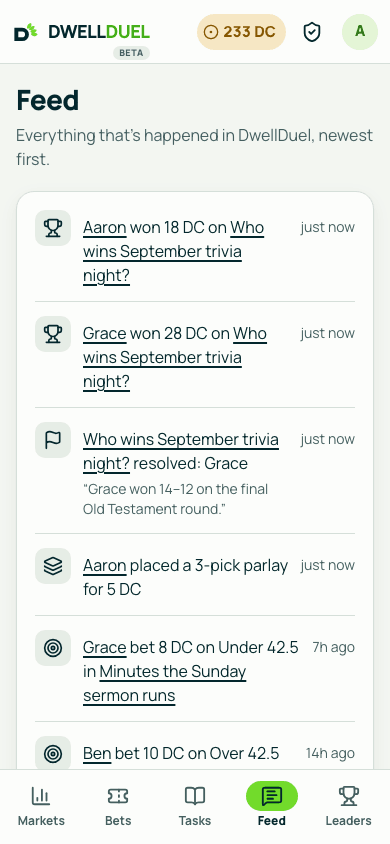
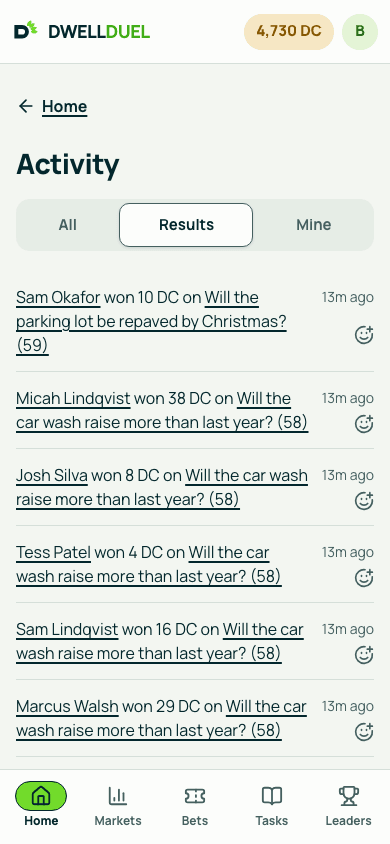
Retake the README screenshots from the redesigned app (#404)
Home, a market, Activity, Settings and the desktop Markets list are new;
the two unreferenced old screenshots are gone, and the captions and
feature list use the app's words.

diff --git a/README.md b/README.md
@@ -17,13 +17,13 @@ questions like "Will the sermon run past noon?" or "Who wins Sunday's
 chili cook-off?". They earn more DC by completing Bible-study tasks.
 A market maker sells shares at each outcome's current chance, so every
 bet's payout is fixed when it's placed; bets can be combined into parlays;
-and everything that happens shows up in a live feed.
+and everything that happens shows up in a live activity feed.
 
 **Current release:** [v0.10.1-beta](https://github.com/Aaron-Wickham/dwell-duel/releases/tag/v0.10.1-beta) · see the [changelog](CHANGELOG.md).
 
-| Home | A market | The feed | Settings |
+| Home | A market | Activity | Settings |
 |---|---|---|---|
-| ![Home, with the balance hero](docs/images/home-phone-light.png) | ![A market with its chance chart](docs/images/market-phone-dark.png) | ![The activity feed](docs/images/feed-phone-light.png) | ![Settings](docs/images/settings-phone-dark.png) |
+| ![Home: your bets closing soonest and the latest activity](docs/images/home-phone-light.png) | ![A market's outcomes, each with what 10 DC wins](docs/images/market-phone-dark.png) | ![Activity, showing results](docs/images/feed-phone-light.png) | ![Settings](docs/images/settings-phone-dark.png) |
 
 ![The markets list on desktop](docs/images/markets-desktop-light.png)
 
@@ -38,12 +38,12 @@ and everything that happens shows up in a live feed.
   paid their shares, rounded down to whole DC.
 - **One slip for every bet:** add outcomes from any market, mark each
   Solo or Parlay, and place them all at once.
-- **Parlays:** 2–6 legs, one per market. The stake is split across the
-  legs, each buying shares at its market's price, so the multiplier and
+- **Parlays:** 2–6 picks, one per market. The stake is split across the
+  picks, each buying shares at its market's price, so the multiplier and
   payout are fixed when it's placed.
 - **Results with receipts:** resolving needs a reason and can carry
   photos, files or links. Admins can override (blocked if a past winner has
-  already spent their winnings) or void (everyone is refunded).
+  already spent their winnings) or call a market off (everyone is refunded).
 - **My bets:** solo bets and parlays together, under Open, Settled and
   Cancelled. Bets are final; the Cancelled tab keeps bets cancelled before
   October 2026, when that was allowed.
@@ -55,7 +55,7 @@ and everything that happens shows up in a live feed.
   optional or required proof, and reviewed singly or in bulk.
 - **Roles:** Owner › Admin › Reviewer › Member.
 - **Social:** a leaderboard, member profiles with photos and bios, who bet
-  what on each market, and a live activity feed.
+  what on each market, and a live activity feed with reactions.
 
 **App feel**
 - **Installable:** add it to your Home Screen for a full-screen app with a
